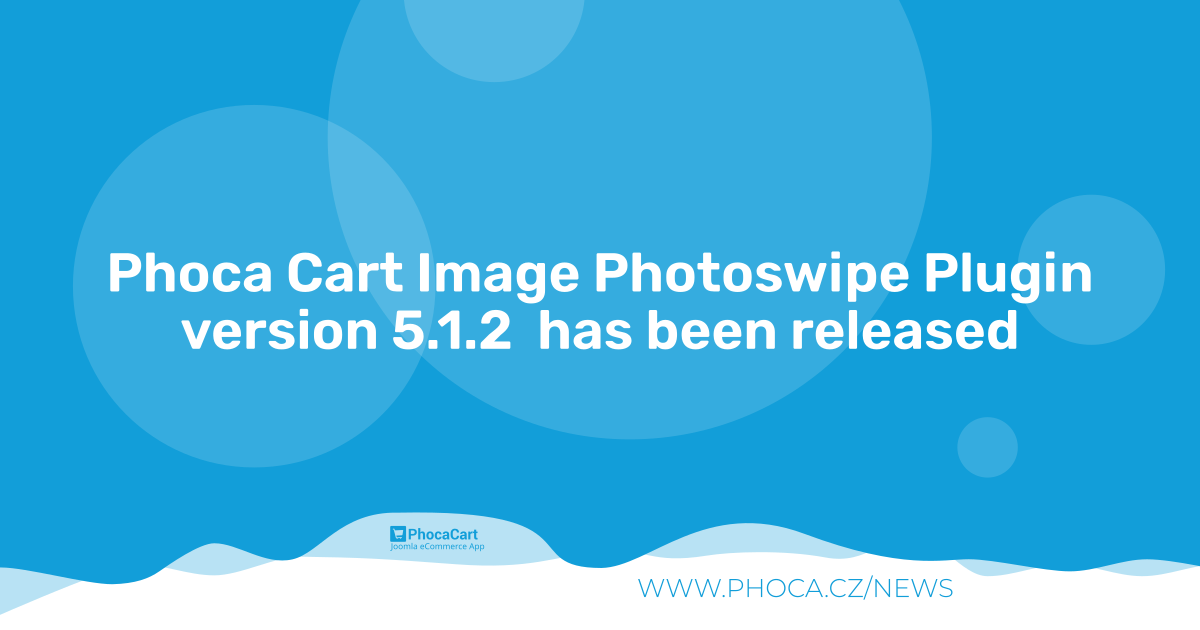
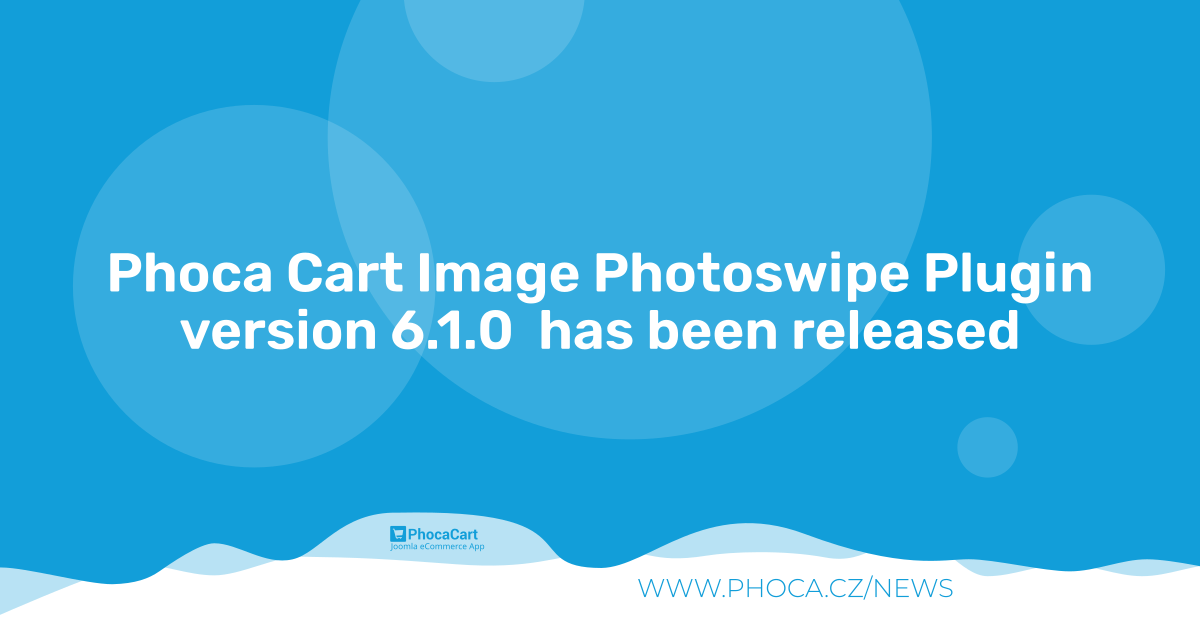
6.1.0

diff --git a/README.MD b/README.MD
@@ -52,10 +52,6 @@ Phoca Cart View - Image Photoswipe Plugin - this plugin creates Photoswipe modal
 
 
 
-## Version (Joomla! 4.x)
-
-4.0.8
-
 ## Version (Joomla! 5.x)
 
 5.1.2
